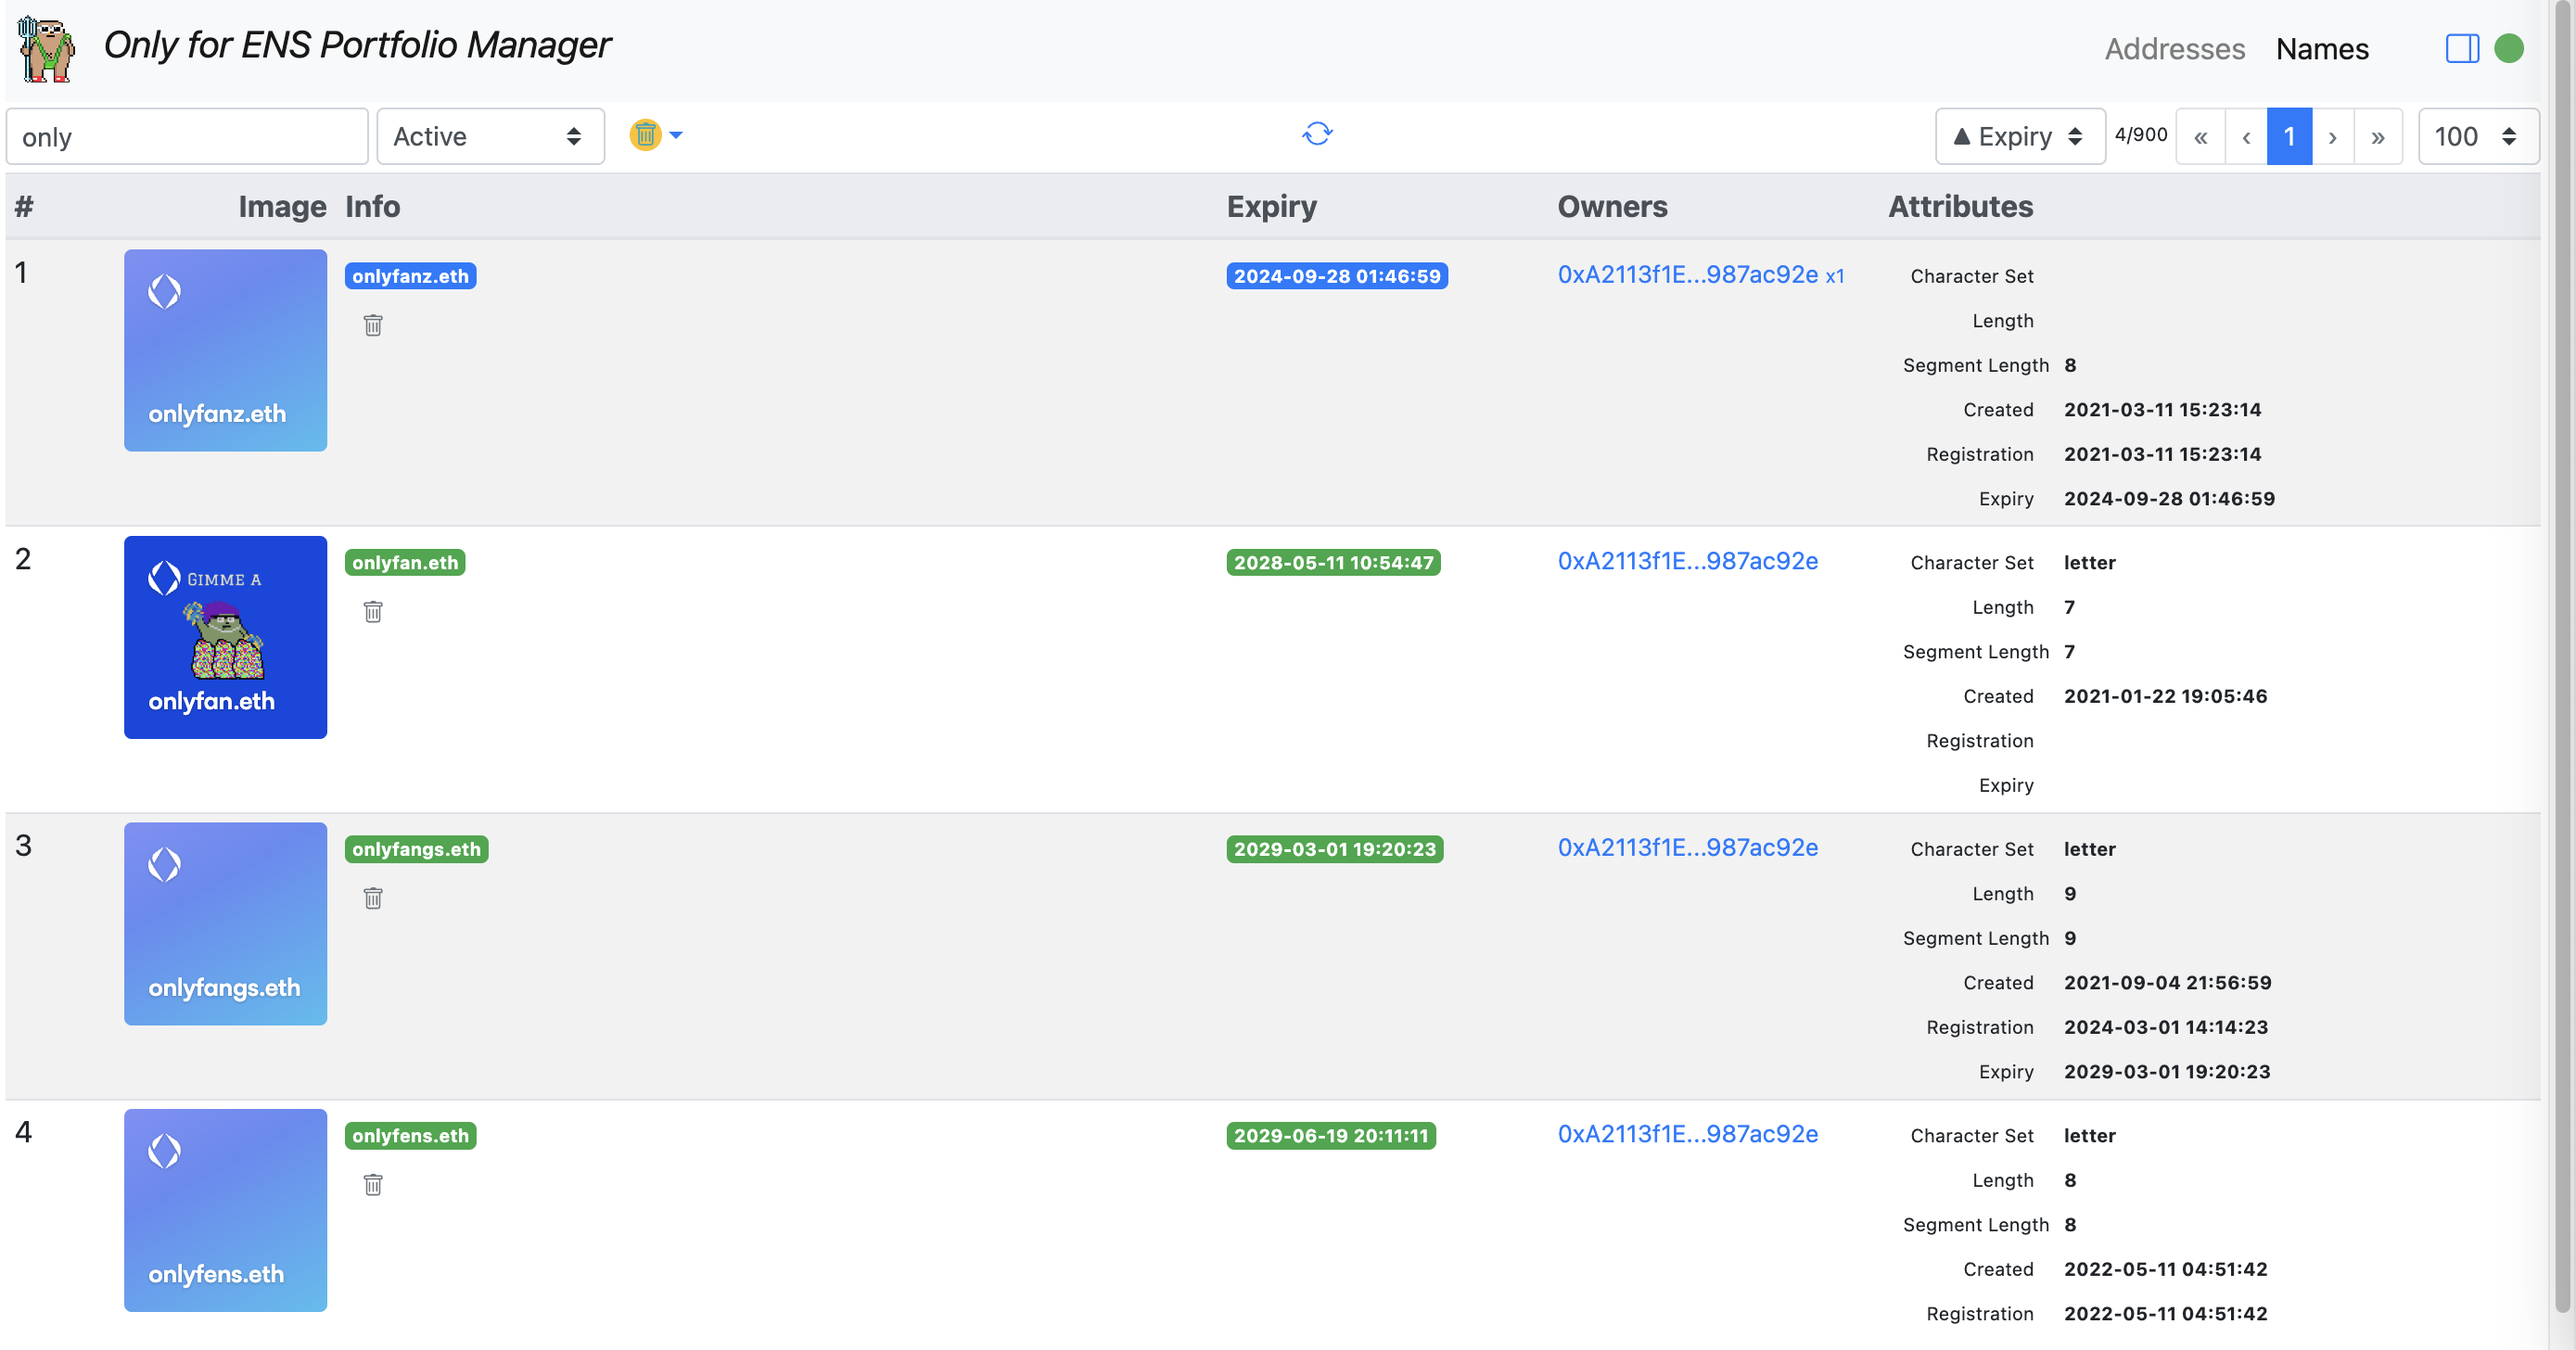
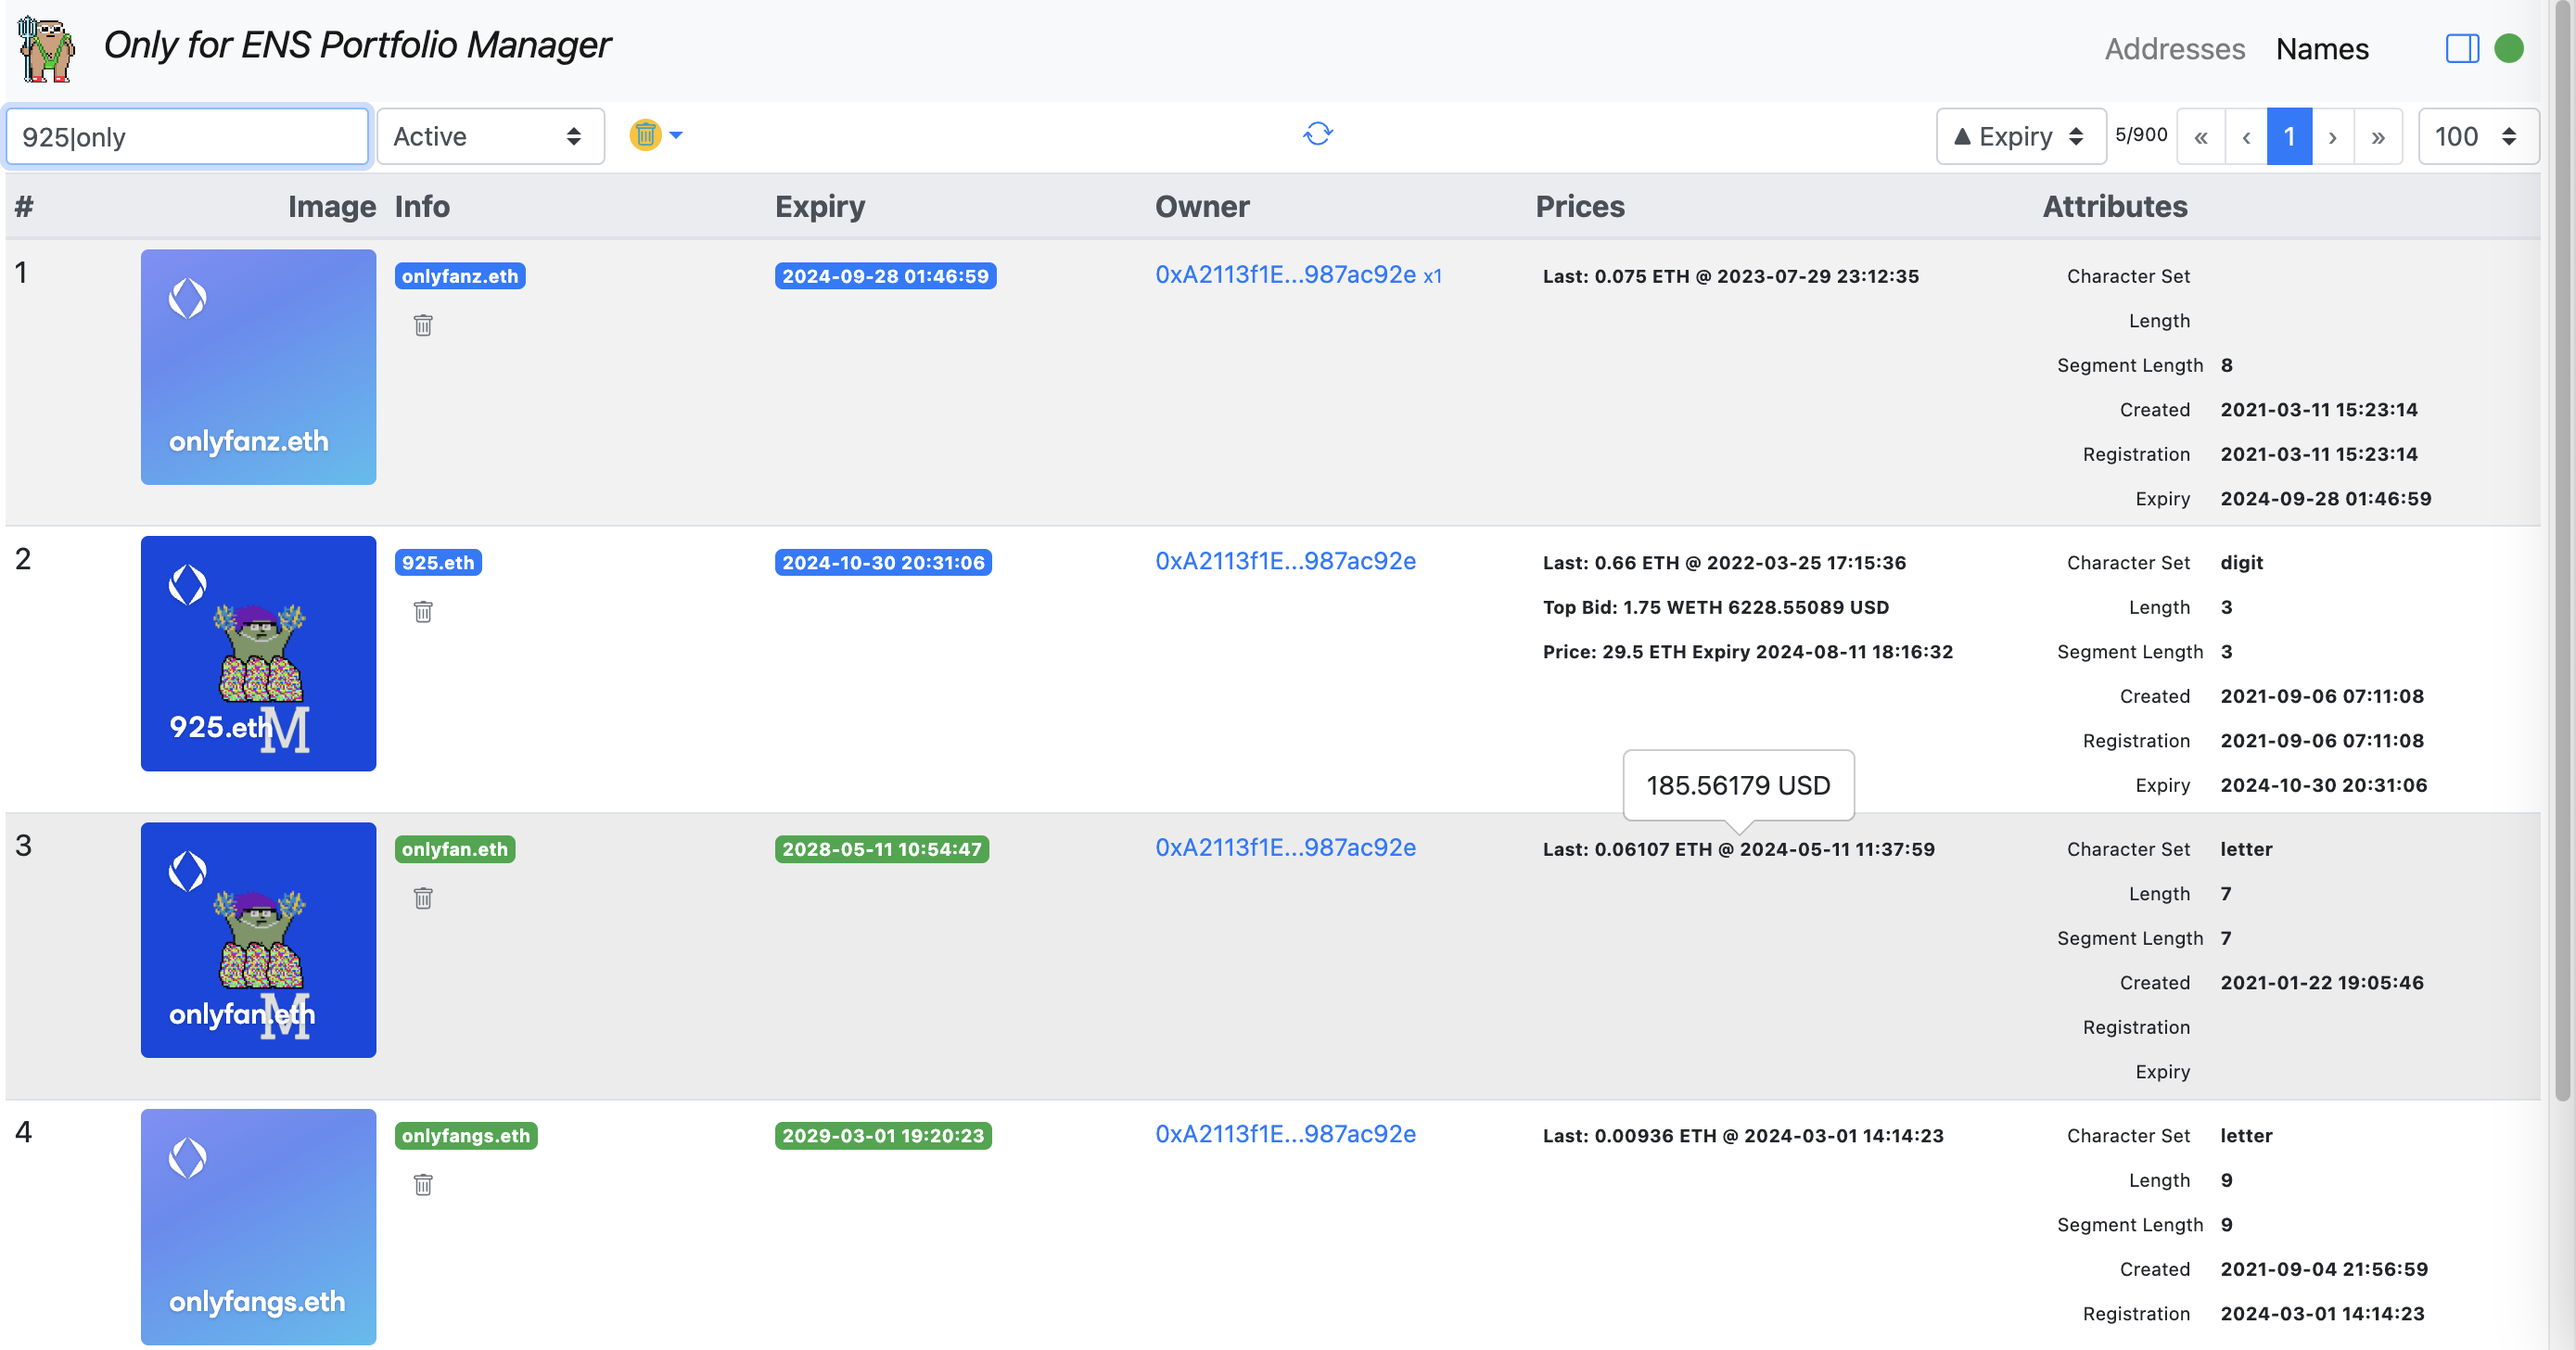
Free Pertsev!

diff --git a/docs/names.js b/docs/names.js
@@ -173,12 +173,18 @@ const Names = {
           </template>
 
           <template #cell(prices)="data">
-            <font size="-2">
-              {{ data.item.lastSale }}
+            <font size="-1">
+              <b-badge v-if="data.item.lastSale && data.item.lastSale.amount" v-b-popover.hover.top="data.item.lastSale.amountUSD + ' USD'" variant="transparent">
+                Last: {{ data.item.lastSale.amount + ' ' + data.item.lastSale.currency + ' @ ' + formatTimestamp(data.item.lastSale.timestamp) }}
+              </b-badge>
               <br />
-              {{ data.item.price }}
+              <b-badge v-if="data.item.topBid && data.item.topBid.amount" v-b-popover.hover.top="'Net amount: ' + data.item.topBid.netAmount + ' ' + data.item.topBid.currency + ' ' + data.item.topBid.netAmountUSD + ' USD'" variant="transparent">
+                Top Bid: {{ data.item.topBid.amount + ' ' + data.item.topBid.currency + ' ' +  data.item.topBid.amountUSD + ' USD' }}
+              </b-badge>
               <br />
-              {{ data.item.topBid }}
+              <b-badge v-if="data.item.price && data.item.price.amount" v-b-popover.hover.top="data.item.price.amountUSD + ' USD on ' + data.item.price.source" variant="transparent">
+                Price: {{ data.item.price.amount + ' ' + data.item.price.currency + ' Expiry ' + formatTimestamp(data.item.price.expiry) }}
+              </b-badge>
             </font>
           </template>
 
